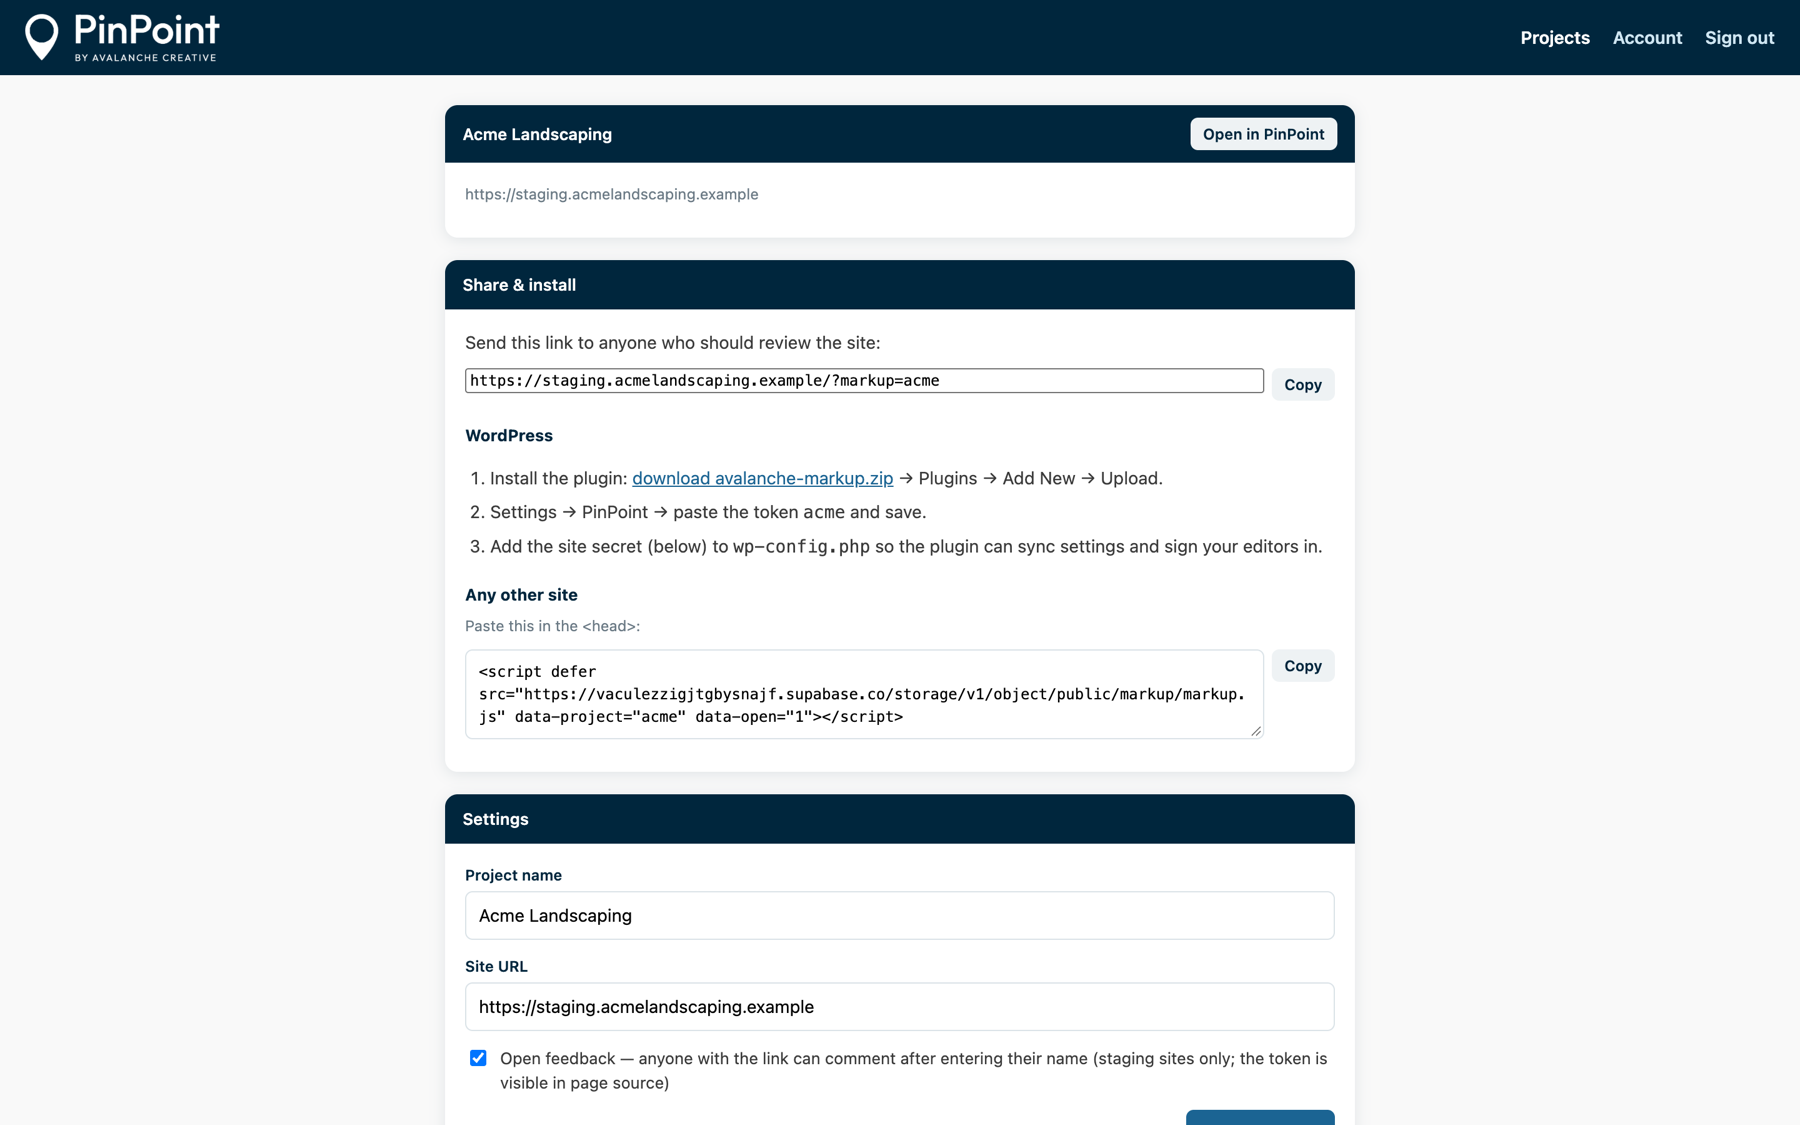
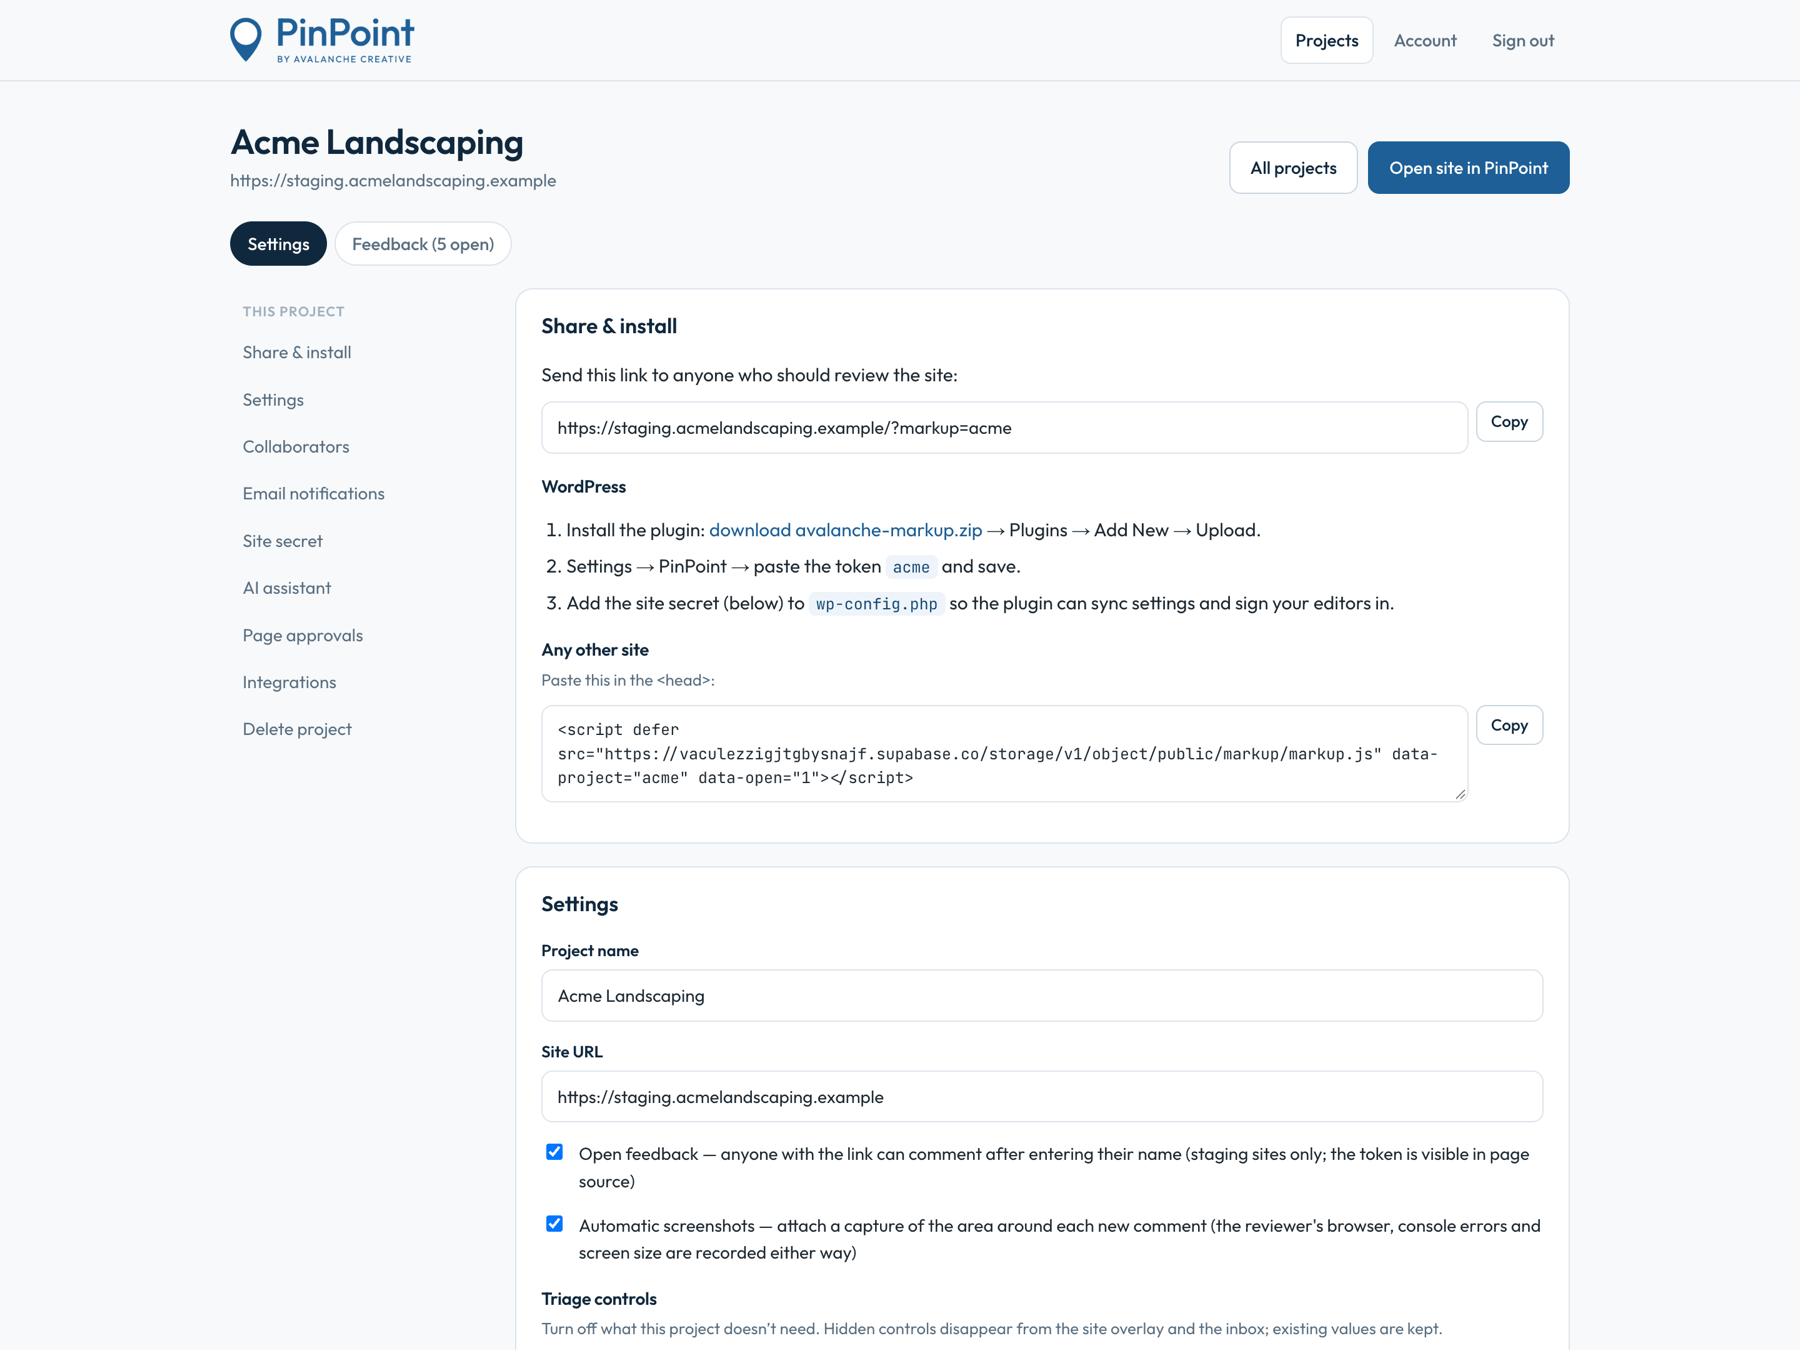
Landing: fresh dashboard screenshots (inbox, project page)

diff --git a/index.html b/index.html
@@ -693,7 +693,7 @@ img{max-width:100%}
       <h2 style="margin:0;font-size:clamp(26px,2.6vw,34px);line-height:1.1;font-weight:600;letter-spacing:-.02em">Every site, one place.</h2>
       <p style="margin:0;font-size:16px;line-height:1.55;color:#5A6F80">Create projects, grab share links and install snippets, invite collaborators and choose who gets notified. Work the feedback inbox with statuses, assignees, labels, effort and a board per project, and email the client what's waiting on them. You sign in with an emailed code, so there's no password to remember.</p>
     </div>
-    <div style="margin-top:auto;aspect-ratio:16/10;background:#EEF2F6;border-top:1px solid #DCE4EB;overflow:hidden"><img src="img/dash-projects.png" alt="The PinPoint dashboard projects list with the plan badge." loading="lazy" style="width:100%;height:100%;object-fit:cover;object-position:top left;display:block"></div>
+    <div style="margin-top:auto;aspect-ratio:16/10;background:#EEF2F6;border-top:1px solid #DCE4EB;overflow:hidden"><img src="img/dash-projects.png" alt="The PinPoint feedback inbox: counts for waiting on the client, quick wins and bigger work, then each item with its status, effort, assignee and labels." loading="lazy" style="width:100%;height:100%;object-fit:cover;object-position:top left;display:block"></div>
   </div>
 </section>
 
